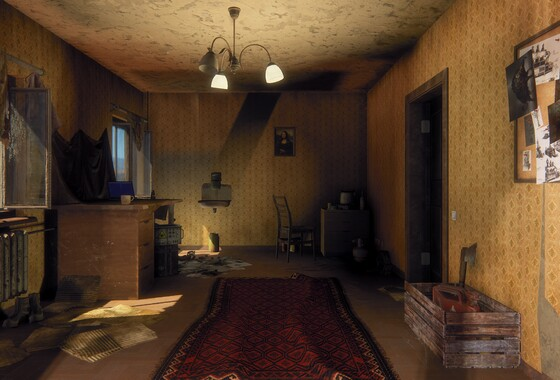
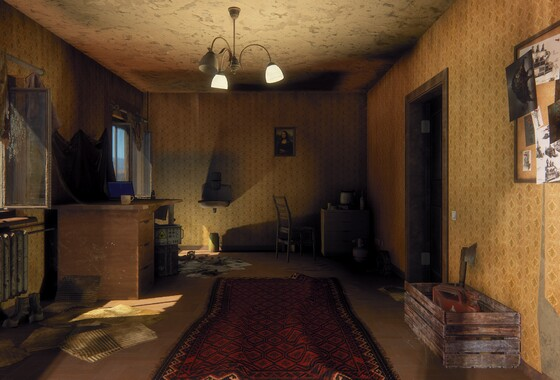
Lobby window: the Room's picture from camp @12 (no wedge on the back wall)

diff --git a/srp-026g/docs/notes/lobby-scenes.md b/srp-026g/docs/notes/lobby-scenes.md
@@ -42,7 +42,7 @@ patch 81 (`client-patches/rust/patches/src/lobby_scene.rs`), the lobby movie's w
   srp the pick (`request_players_range(2 095 000 000 + id, 1)`, srp's `3B` at a reserved start,
   `lobby.md` 2.16) and closes the window; Esc and the button close it too. What it shows the exe
   tells it (`root.srp_lobby_state(pick, shown)`), at its first frame and at each change.
-  The pictures are the lobbies' stock views without anyone in them (camp @11, bunker @6,
+  The pictures are the lobbies' stock views without anyone in them (camp @12, bunker @6,
   hangar @8, the classic): 560 x 380, twice the card, JPEG at q90 as the game's map renders are
   (`flash/lobby_menu/bitmaps/SrpLobby*.jpg`, 255 KB the four), cut from 2560 x 1440 captures of the
   diagnostics sweep's `empty`.
